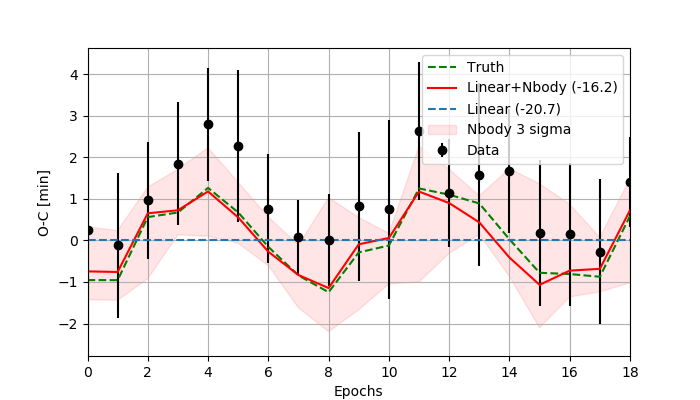
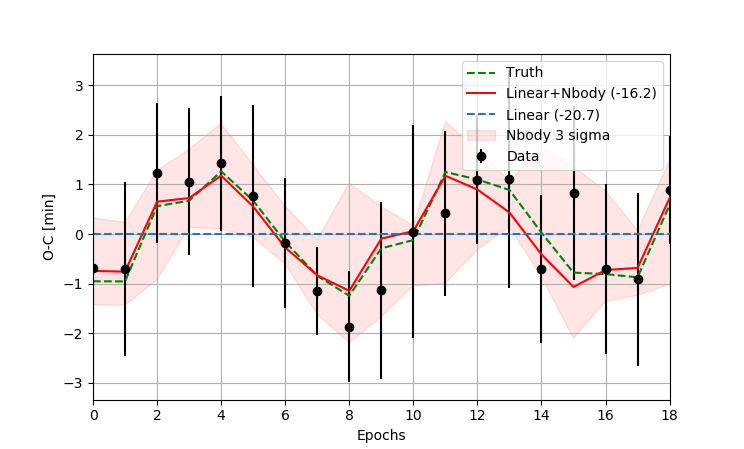
new figure

diff --git a/nested_nbody.py b/nested_nbody.py
@@ -193,7 +193,7 @@ if __name__ == "__main__":
     # simulate some observational data with noise 
     ttv = ttv_data['planets'][0]['ttv']
     epochs = np.arange(len(ttv))
-    ocdata = ttv + np.random.normal(1,0.5,len(ttv))/(24*60)
+    ocdata = ttv + np.random.normal(0,0.5,len(ttv))/(24*60)
     ttdata = ocdata + epochs*ttv_data['planets'][0]['P'] 
     err = np.random.normal(90,30,len(ttv))/(24*60*60)
     
